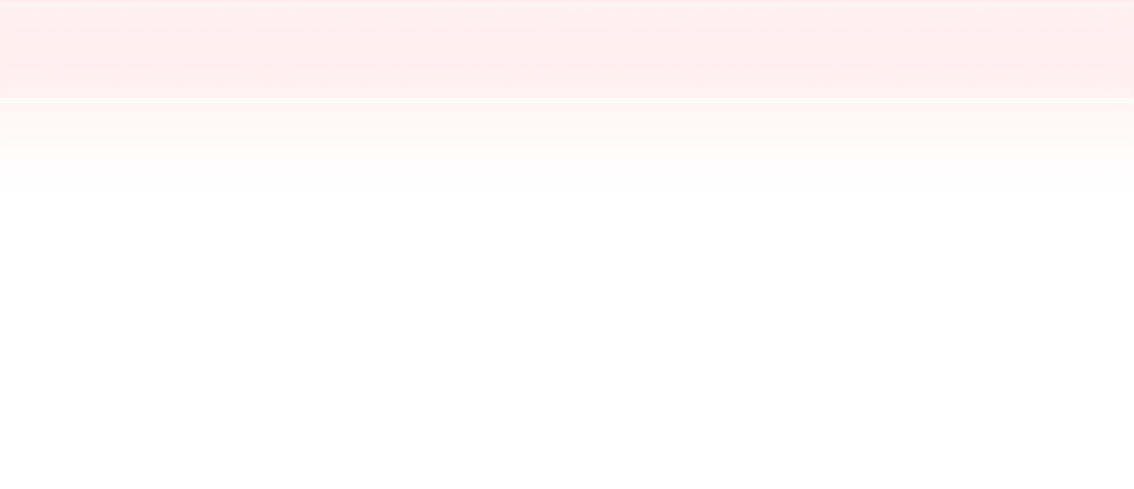
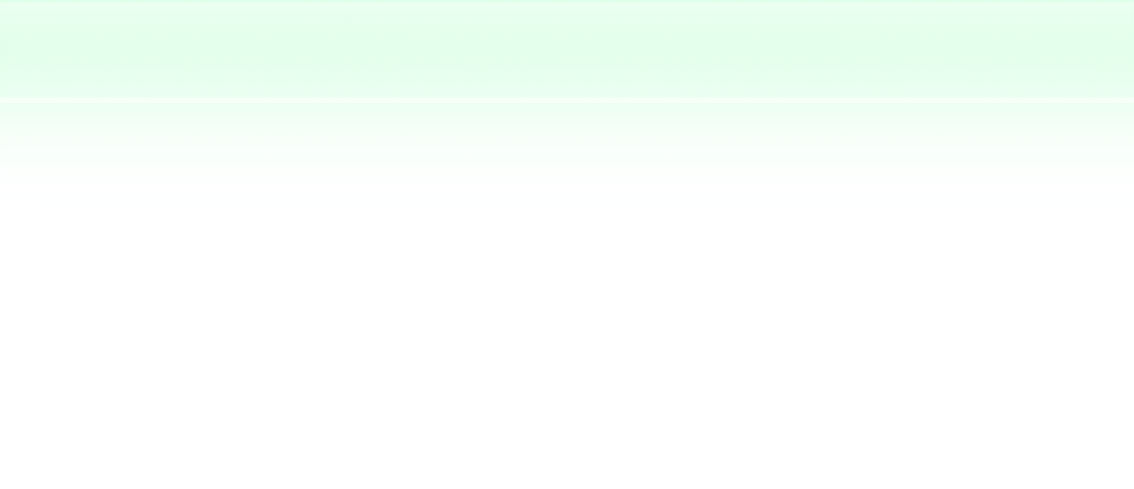
変えた

Changed region(s): [[0.0, 0.0, 1.0, 0.1534]]

diff --git a/index.css b/index.css
@@ -63,7 +63,7 @@ header p{
   }
 
   #menu_pc ul li a:hover {
-    color: #bbffe6;
+    color: #ffd9ec;
   }
 
   .fixed {
@@ -72,7 +72,6 @@ header p{
     width: 100%;
     z-index: 10000;
 }
-
 
 /*-----------------------
 　メイン
@@ -88,6 +87,7 @@ header p{
     line-height:40px;
     text-align:center;
     font-family: 'Franklin Gothic Medium', 'Arial Narrow', Arial, sans-serif;
+    padding: 5% 0% 0% 0%;
     }
 
 .main{
@@ -111,6 +111,7 @@ header p{
   position: relative;
   width:250px;
   height:380px;
+  z-index: 0;
   }
 
   .frame:after {
@@ -124,7 +125,7 @@ header p{
   box-shadow: 0 4px 10px rgba(0, 0, 0, 0.3);
   transform: rotate(3deg); /* 回転させる */
   background: #fff;
-  z-index: -1;
+  z-index: -2;
   }
 
   .frame02 {
@@ -132,6 +133,7 @@ header p{
     position: relative;
     width:380px;
     height:250px;
+    z-index: 0;
     }
   
     .frame02:after {
@@ -145,7 +147,7 @@ header p{
     box-shadow: 0 4px 10px rgba(0, 0, 0, 0.3);
     transform: rotate(3deg); /* 回転させる */
     background: #fff;
-    z-index: -1;
+    z-index: -2;
     }
 
 /*-----------------------
